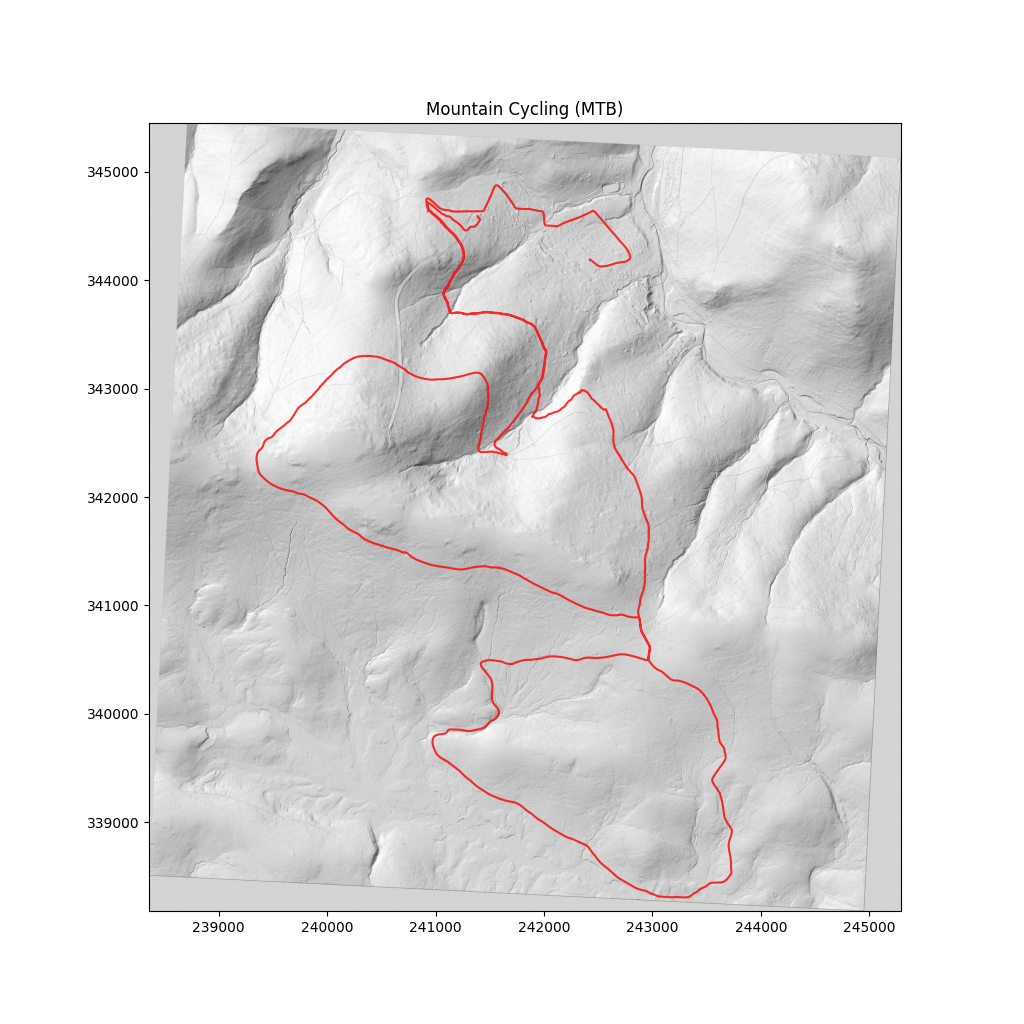
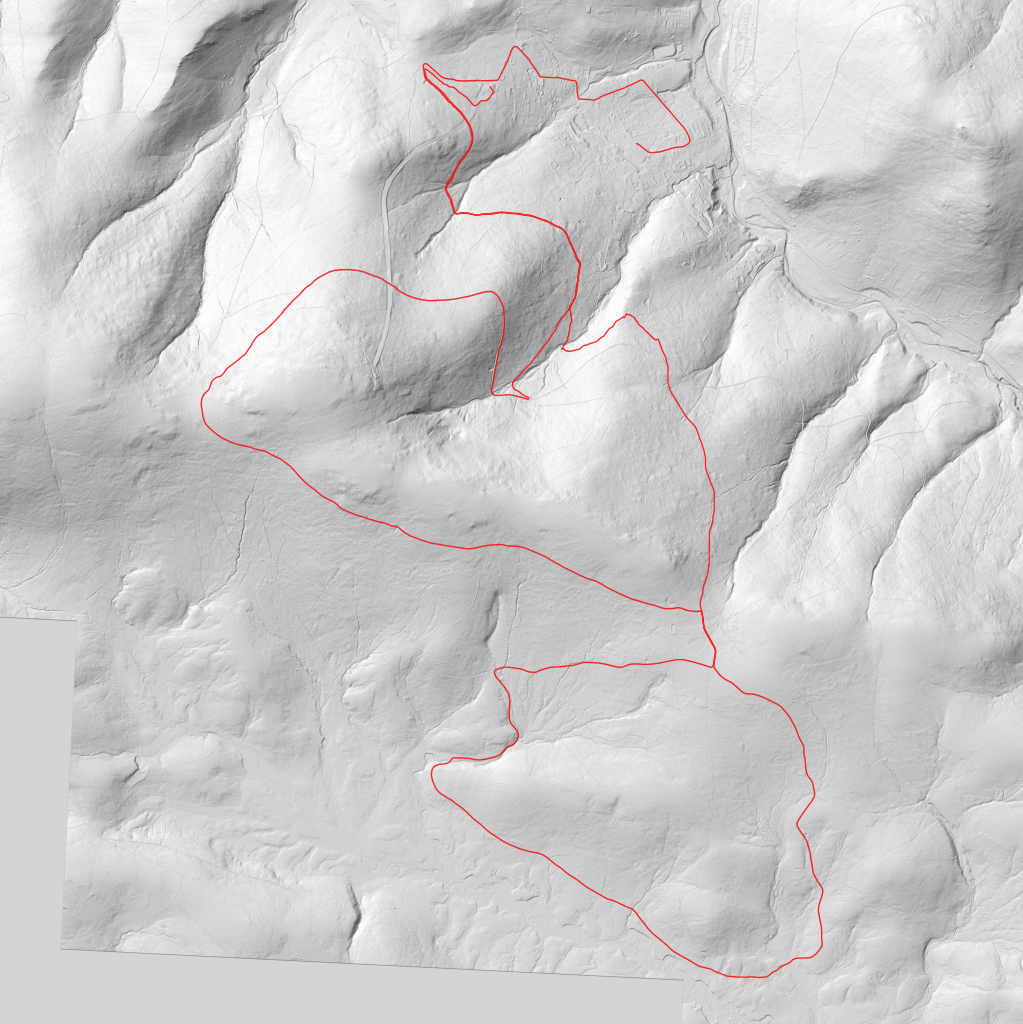
map trimming options; map line width option

diff --git a/gpst/tools/map.py b/gpst/tools/map.py
@@ -3,6 +3,7 @@ import rasterio # type: ignore[import-untyped]
 
 import matplotlib.pyplot as plt
 
+from enum import StrEnum
 from pathlib import Path
 from rasterio.merge import merge # type: ignore[import-untyped]
 from rasterio.warp import transform # type: ignore[import-untyped]
@@ -19,9 +20,47 @@ DEFAULT_WIDTH = 4096
 DEFAULT_HEIGHT = 4096
 
 
-def main(path: Path, dem_files: list[Path] | None = None, dem_crs: str | None = None,
-         output: Path | None = None, width: int = DEFAULT_WIDTH, height: int = DEFAULT_HEIGHT,
-         show_title: bool = False) -> bool:
+class TrimMode(StrEnum):
+    TIGHT = 'tight'
+    BOX = 'box'
+
+
+def _get_track_bounds(track_x: list[float | None], track_y: list[float | None], trim: TrimMode) -> tuple[float, float, float, float] | None:
+    valid_x = [x for x in track_x if x is not None]
+    valid_y = [y for y in track_y if y is not None]
+    if valid_x and valid_y:
+        minx, maxx = min(valid_x), max(valid_x)
+        miny, maxy = min(valid_y), max(valid_y)
+
+        dx = maxx - minx
+        dy = maxy - miny
+
+        if trim == TrimMode.BOX:
+            dmax = max(dx, dy)
+            midx, midy = (minx + maxx) / 2, (miny + maxy) / 2
+            minx, maxx = midx - dmax / 2, midx + dmax / 2
+            miny, maxy = midy - dmax / 2, midy + dmax / 2
+            dx = dy = dmax
+
+        if dx == 0:
+            dx = 1
+        if dy == 0:
+            dy = 1
+        
+        padding = max(dx, dy) * 0.05
+
+        left = minx - padding
+        right = maxx + padding
+        bottom = miny - padding
+        top = maxy + padding
+
+        return left, right, bottom, top
+    return None
+
+
+def main(path: Path, dem_files: list[Path] | None = None, dem_crs: str | None = None, output: Path | None = None,
+         width: int = DEFAULT_WIDTH, height: int = DEFAULT_HEIGHT, line_width: float = 2.5,
+         show_title: bool = False, trim: TrimMode | None = None) -> bool:
     if not verify_in_path(path):
         return False
 
@@ -106,7 +145,14 @@ def main(path: Path, dem_files: list[Path] | None = None, dem_crs: str | None = 
                 track_y.append(ys[0])
 
         logger.info("Plotting track...")
-        ax.plot(track_x, track_y, color='red', linewidth=1.5, alpha=0.8, zorder=10)
+        ax.plot(track_x, track_y, color='red', linewidth=line_width, alpha=0.8, zorder=10)
+
+        if trim is not None:
+            bounds = _get_track_bounds(track_x, track_y, trim)
+            if bounds is not None:
+                left, right, bottom, top = bounds
+                ax.set_xlim(left, right)
+                ax.set_ylim(bottom, top)
 
         # If no DEM is present, ensure the plot has a reasonable aspect ratio
         if not dem_files:
@@ -163,6 +209,13 @@ def add_argparser(subparsers: argparse._SubParsersAction) -> None:
         default=DEFAULT_HEIGHT
     )
     parser.add_argument(
+        "--line-width",
+        dest="line_width",
+        type=float,
+        help="Width of the track line (default: 2.5).",
+        default=2.5
+    )
+    parser.add_argument(
         "-o", "--output",
         dest="output",
         type=Path,
@@ -175,6 +228,14 @@ def add_argparser(subparsers: argparse._SubParsersAction) -> None:
         action="store_true",
         help="Show the activity name as the title of the map.",
         default=False
+    )
+    parser.add_argument(
+        "--trim",
+        dest="trim",
+        help="Trim the map to the track bounds.",
+        type=TrimMode,
+        choices=[TrimMode.TIGHT, TrimMode.BOX],
+        default=None
     )
 
 tool = Tool(

diff --git a/README.md b/README.md
@@ -123,7 +123,8 @@ Example:
 
 ```
 $ gpst map -h
-usage: gpst map [-h] [--dem DEM_FILE [DEM_FILE ...]] [--dem-crs DEM_CRS] [--width WIDTH] [--height HEIGHT] [-o OUTPUT] [--show-title] FILE
+usage: gpst map [-h] [--dem DEM_FILE [DEM_FILE ...]] [--dem-crs DEM_CRS] [--width WIDTH] [--height HEIGHT] [--line-width LINE_WIDTH] [-o OUTPUT] [--show-title] [--trim {tight,box}]
+                FILE
 
 positional arguments:
   FILE                  Path to input file (.gpx or .fit).
@@ -135,13 +136,16 @@ options:
   --dem-crs DEM_CRS     Coordinate reference system of the DEM files to be used if no CRS is specified in the files themselves (e.g. 'EPSG:4326').
   --width WIDTH         Width of the output image in pixels (default: 4096).
   --height HEIGHT       Height of the output image in pixels (default: 4096).
+  --line-width LINE_WIDTH
+                        Width of the track line (default: 2.5).
   -o, --output OUTPUT   Path to the output image file. If not provided, shows the map interactively.
   --show-title          Show the activity name as the title of the map.
+  --trim {tight,box}    Trim the map to the track bounds.
 ```
 
 Example:
 
-`$ gpst map ./track.gpx --dem ./dem/*.asc --dem-crs EPSG:2180 -o map.png --width 1024 --height 1024`
+`$ gpst map ./track.gpx --dem ./dem/*.asc --dem-crs EPSG:2180 -o map.png --width 1024 --height 1024 --trim box --line-width 1`
 
 [![Map](./docs/images/map.png)](./docs/images/map.png)
 
